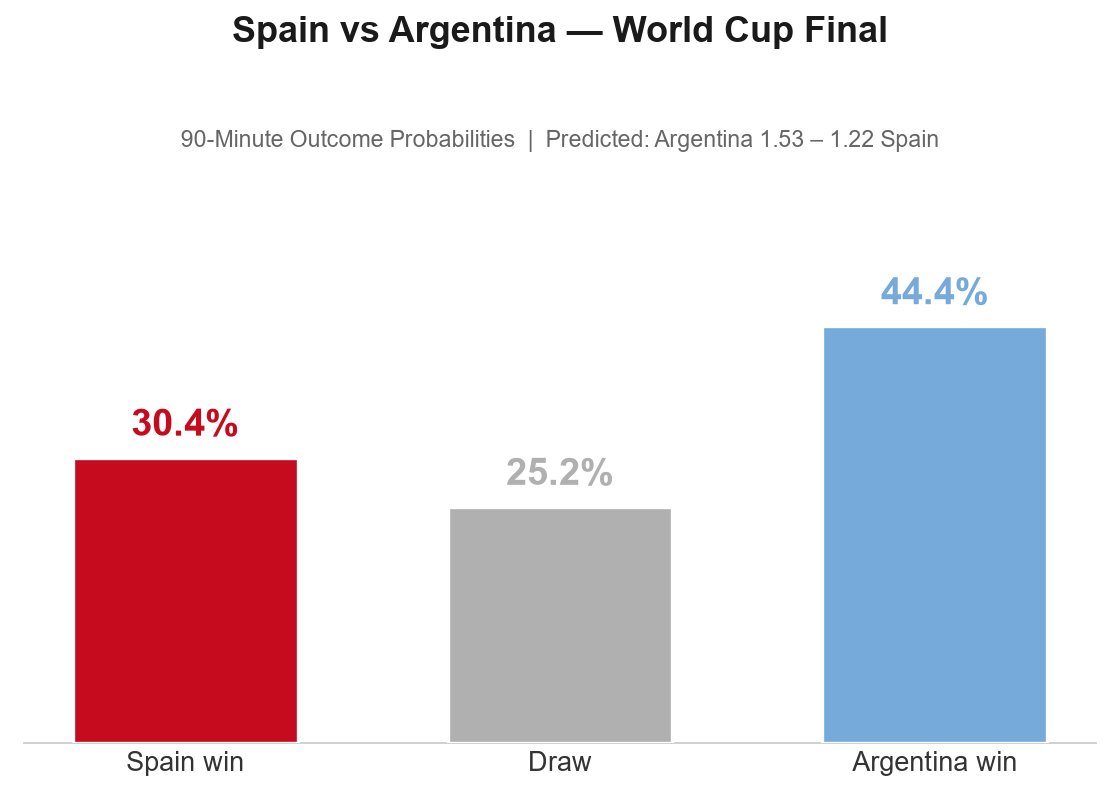
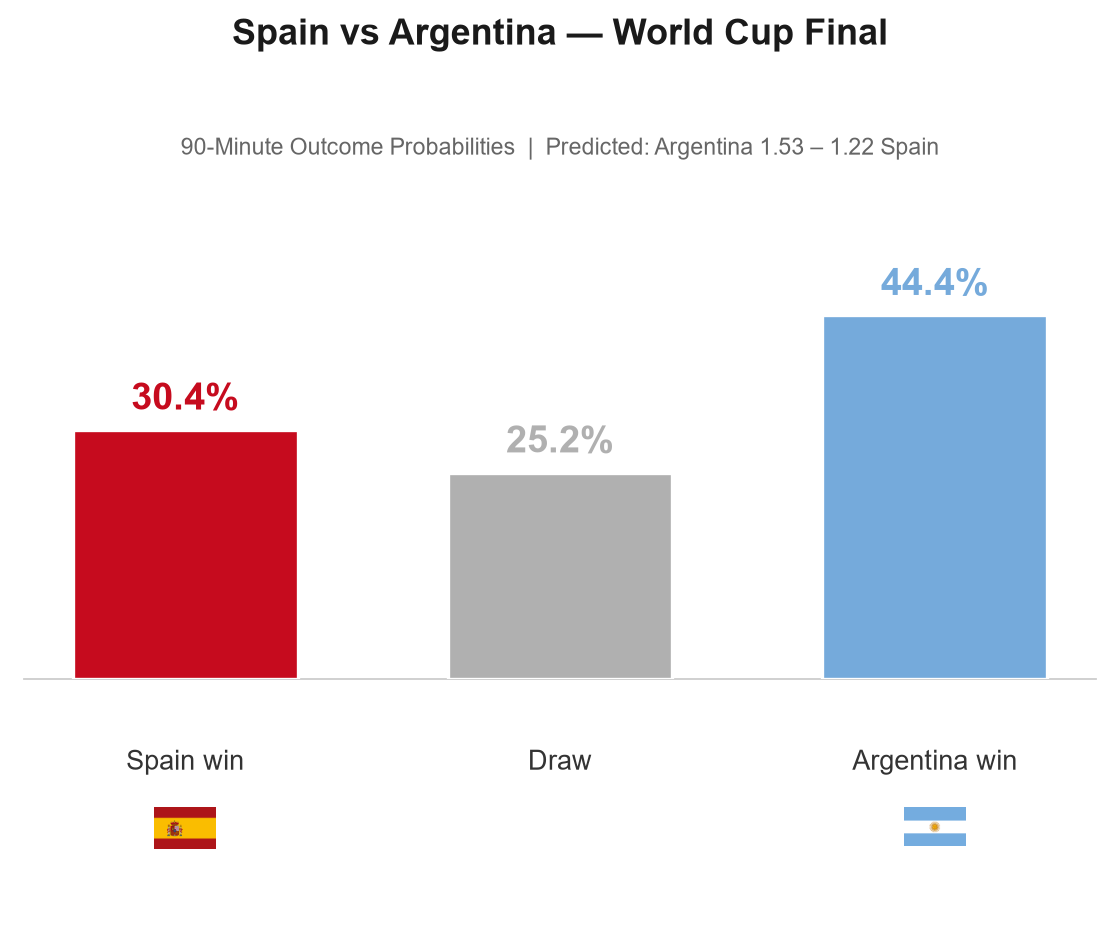
updated graph

diff --git a/src/simulation.py b/src/simulation.py
@@ -117,14 +117,32 @@ def print_results(results: dict) -> None:
         print(f"  {HOME_TEAM} {h} - {a} {AWAY_TEAM}: {count / results['n']:.1%}")
 
 
+def download_flag(country_code: str, cache_dir: str) -> str | None:
+    """Download and cache a small flag PNG. Returns local file path, or None if it fails."""
+    os.makedirs(cache_dir, exist_ok=True)
+    local_path = os.path.join(cache_dir, f"{country_code}.png")
+    if not os.path.exists(local_path):
+        try:
+            import urllib.request
+            url = f"https://flagcdn.com/w80/{country_code}.png"
+            urllib.request.urlretrieve(url, local_path)
+        except Exception as e:
+            print(f"Could not download flag for {country_code}: {e}")
+            return None
+    return local_path
+
+
 def plot_results(results: dict, home_xg: float, away_xg: float) -> None:
+    import matplotlib.image as mpimg
+    from matplotlib.offsetbox import OffsetImage, AnnotationBbox
+
     sns.set_style("white")
 
     labels = [f"{HOME_TEAM} win", "Draw", f"{AWAY_TEAM} win"]
     values = [results["home_win_90"], results["draw_90"], results["away_win_90"]]
-    colors = ["#C60B1E", "#B0B0B0", "#75AADB"]  # Spain red, neutral gray, Argentina sky blue
+    colors = ["#C60B1E", "#B0B0B0", "#75AADB"]
 
-    fig, ax = plt.subplots(figsize=(7, 5))
+    fig, ax = plt.subplots(figsize=(7, 5.8))
     fig.patch.set_facecolor("white")
 
     bars = ax.bar(labels, values, color=colors, width=0.6, edgecolor="white", linewidth=1.5, zorder=3)
@@ -148,7 +166,24 @@ def plot_results(results: dict, home_xg: float, away_xg: float) -> None:
 
     ax.set_xticks(range(len(labels)))
     ax.set_xticklabels(labels, fontsize=12, fontweight="medium", color="#333333")
-    ax.tick_params(axis="x", length=0)
+    ax.tick_params(axis="x", length=0, pad=32)  # extra padding so flags have room below labels
+
+    # download and place actual flag images below the relevant bars
+    cache_dir = os.path.join(os.path.dirname(__file__), "..", "data", "flags")
+    flag_files = {0: download_flag("es", cache_dir), 2: download_flag("ar", cache_dir)}
+
+    for x_pos, path in flag_files.items():
+        if path is None:
+            continue
+        img = mpimg.imread(path)
+        imagebox = OffsetImage(img, zoom=0.35)
+        ab = AnnotationBbox(
+            imagebox, (x_pos, 0),
+            xybox=(0, -58), xycoords=("data", "axes fraction"),
+            boxcoords="offset points", box_alignment=(0.5, 1),
+            frameon=False, annotation_clip=False,
+        )
+        ax.add_artist(ab)
 
     fig.suptitle(f"{HOME_TEAM} vs {AWAY_TEAM} — World Cup Final", fontsize=16, fontweight="bold", y=0.98, color="#1a1a1a")
     ax.set_title(
@@ -156,12 +191,10 @@ def plot_results(results: dict, home_xg: float, away_xg: float) -> None:
         fontsize=10.5, color="#666666", pad=15,
     )
 
-    plt.tight_layout(rect=[0, 0, 1, 0.94])
+    plt.tight_layout(rect=[0, 0.05, 1, 0.94])
     out_path = os.path.join(os.path.dirname(__file__), "..", "final_prediction.png")
     plt.savefig(out_path, dpi=160, facecolor="white")
     print(f"\nSaved chart to {out_path}")
-
-
 if __name__ == "__main__":
     home_model, away_model = load_models()
     final_features = get_final_features()

diff --git a/src/features.py b/src/features.py
@@ -40,7 +40,8 @@ def get_connection():
 def h2h_key(a: str, b: str) -> tuple:
     """Order-independent key so Argentina-vs-Spain and Spain-vs-Argentina
     share the same head-to-head record."""
-    return tuple(sorted([a, b]))
+    return tuple(sorted([a, b])) # guarantees both produce the identical key ("Argentina", "Spain") 
+                                # regardless of who's home or away, so we always look up the same dictionary entry. 
 
 
 def compute_elo_and_h2h(matches: pd.DataFrame) -> pd.DataFrame: